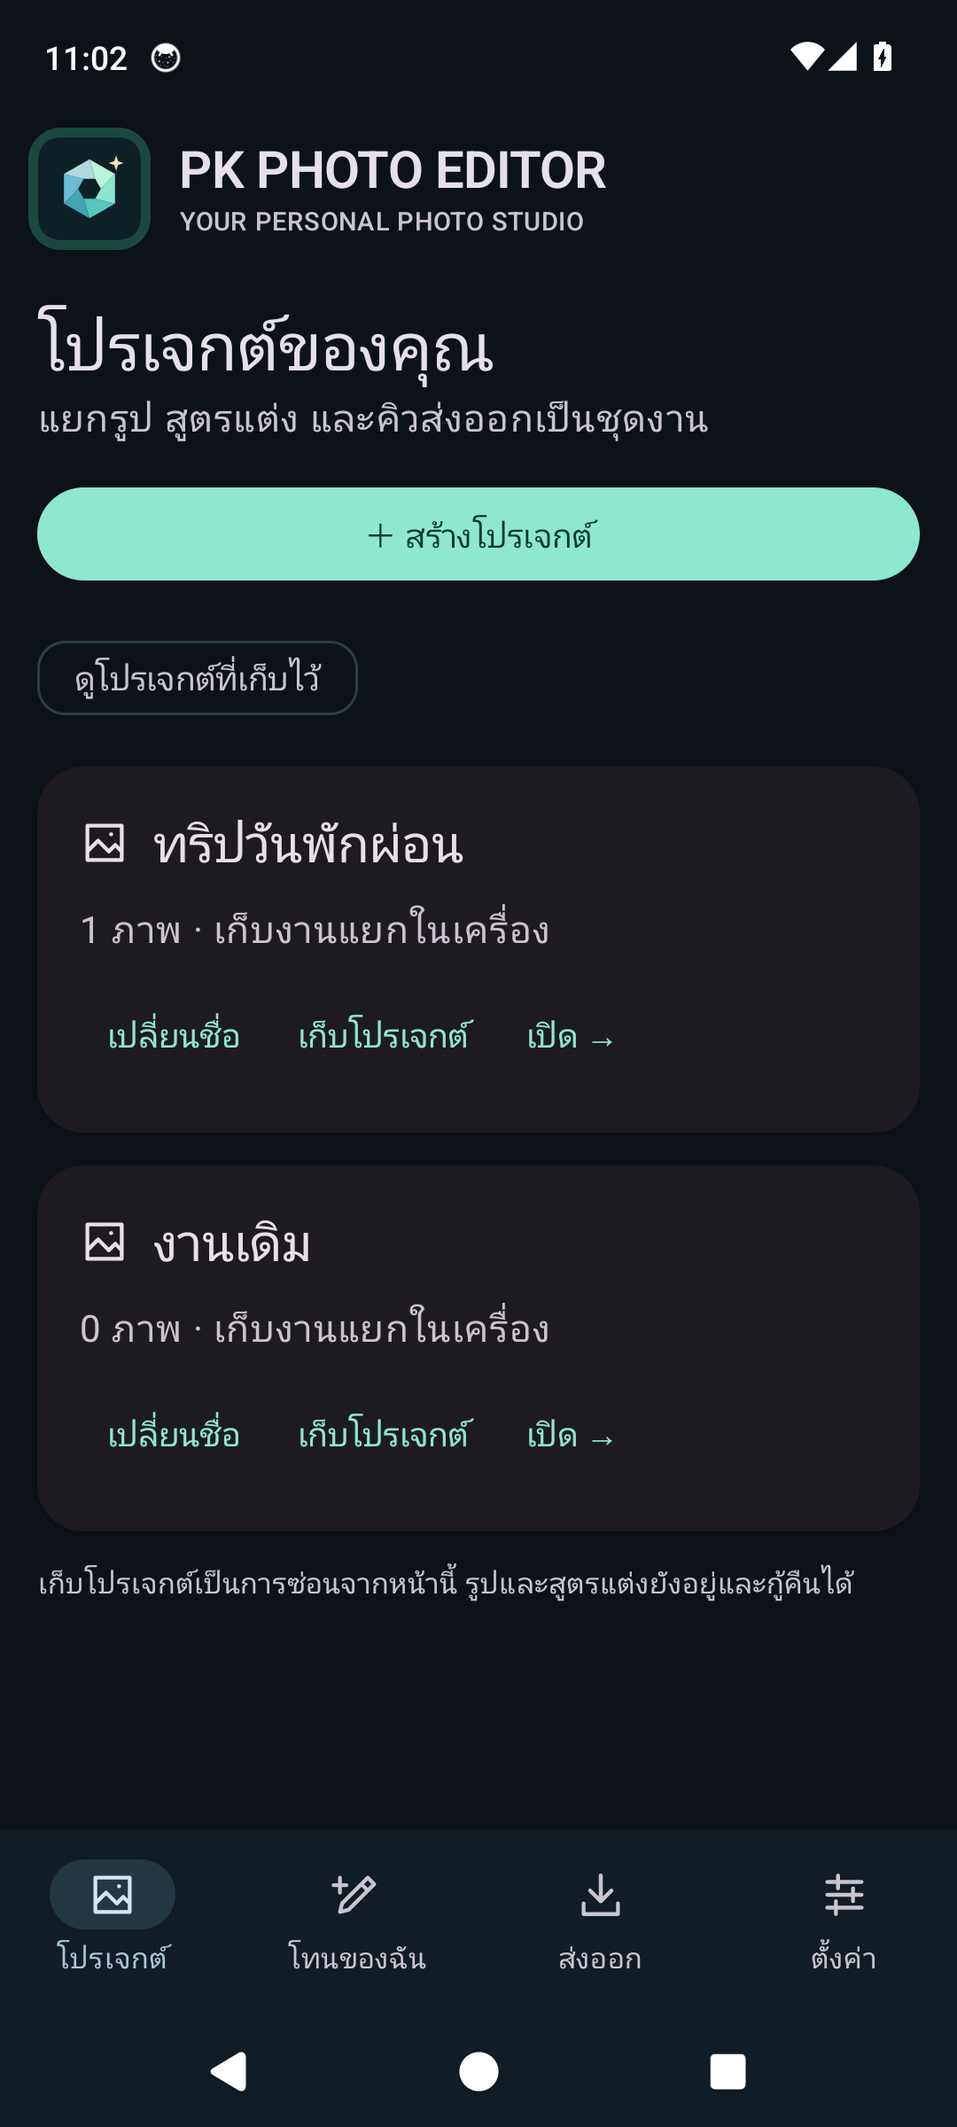
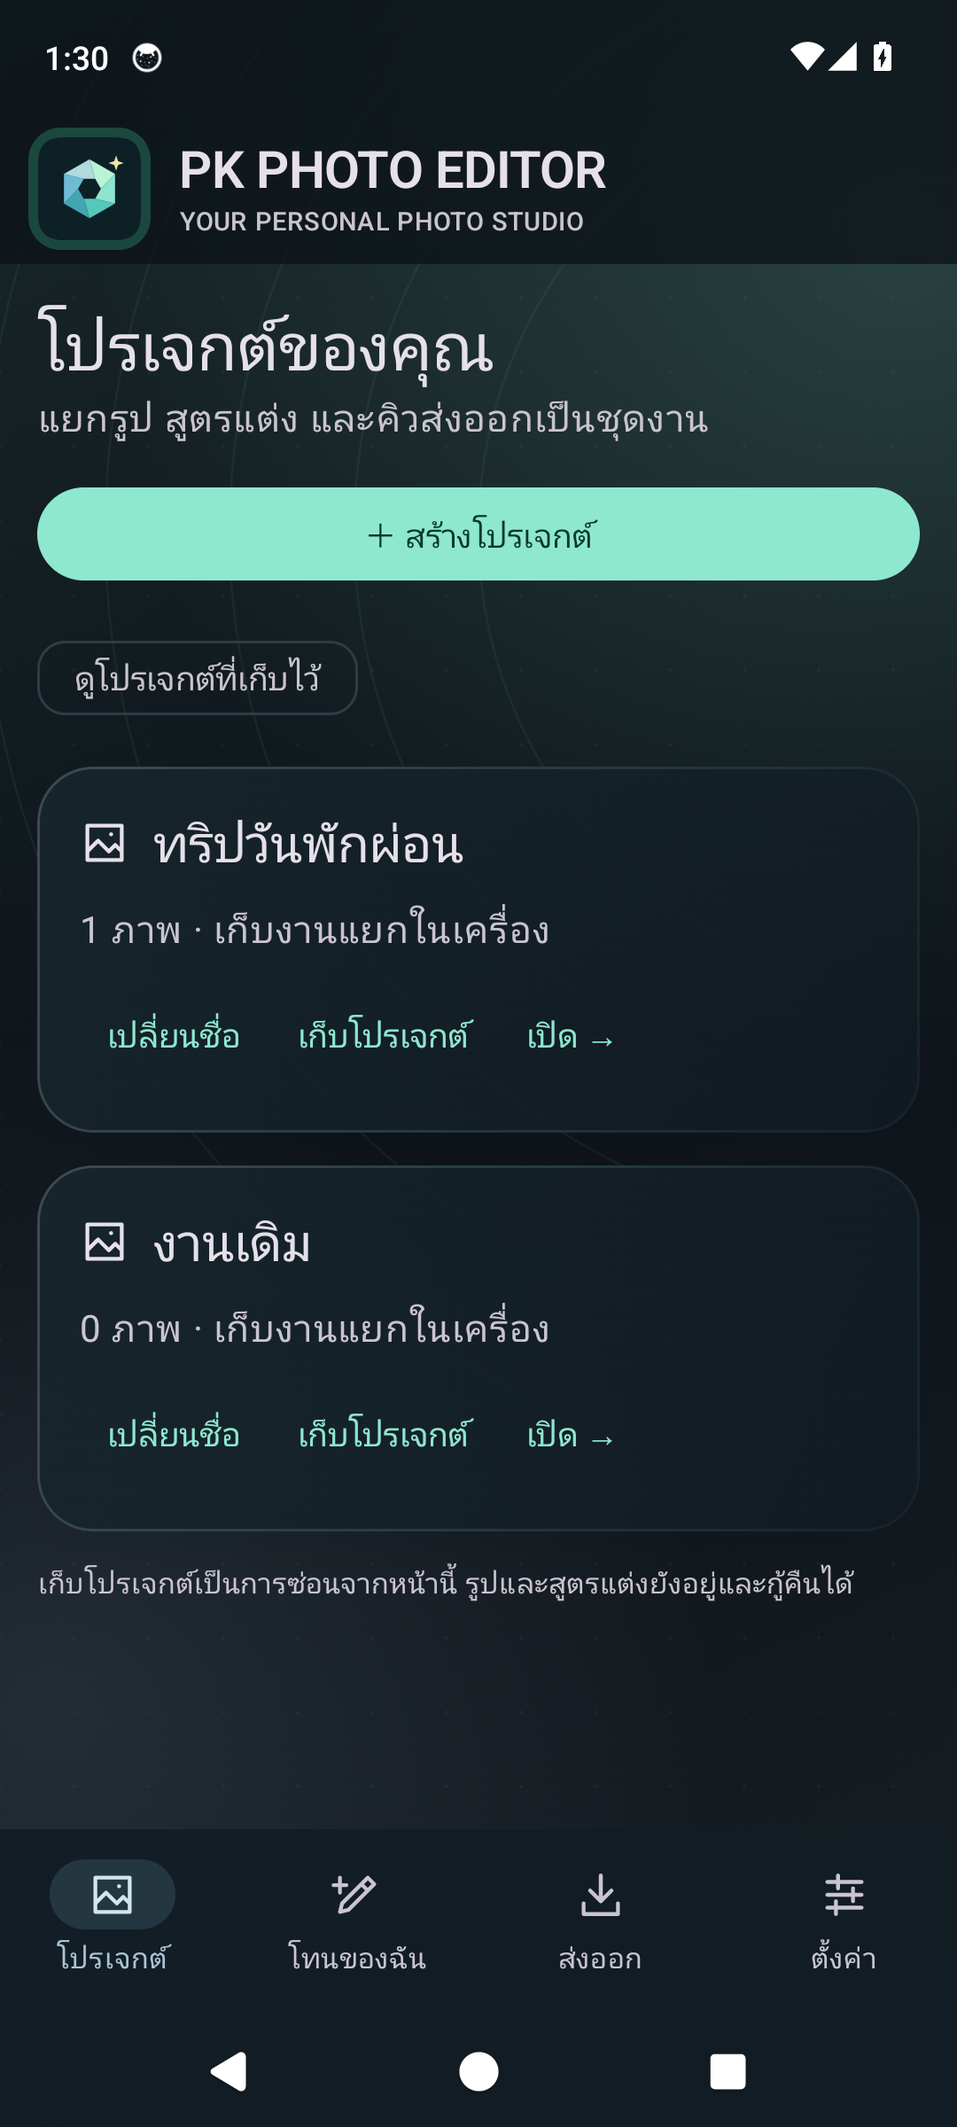
Release 0.4.1 timestamp names and glass studio screens

diff --git a/docs/index.html b/docs/index.html
@@ -1,10 +1,11 @@
 <!doctype html>
 <html lang="th"><head><meta charset="utf-8"><meta name="viewport" content="width=device-width,initial-scale=1"><meta name="theme-color" content="#101916"><meta name="description" content="PK PHOTO EDITOR โปรแกรมแต่งภาพบน Android 14 ขึ้นไป ปรับโทน แสง สี และจัดการภาพเป็นชุดบนเครื่องของคุณ"><title>PK PHOTO EDITOR — Make it your light.</title><link rel="icon" href="assets/pk-logo.svg" type="image/svg+xml"><link rel="preload" href="assets/NotoSansThai.ttf" as="font" type="font/ttf" crossorigin><link rel="stylesheet" href="style.css"></head>
 <body><a class="skip" href="#main">ข้ามไปเนื้อหา</a><header><a class="brand" href="#" aria-label="PK PHOTO EDITOR หน้าแรก"><img class="brand-symbol" src="assets/pk-logo.svg" width="56" height="56" alt="โลโก้ PK PHOTO EDITOR"><span>PK PHOTO<br>EDITOR</span></a><nav aria-label="เมนูหลัก"><a href="#studio">สตูดิโอ</a><a href="#features">เครื่องมือ</a><a href="#install">ติดตั้ง</a><a class="nav-download" href="https://github.com/hertzscream/PK-PHOTO-EDITOR/releases/latest">ดาวน์โหลด ↗</a></nav></header>
-<main id="main"><section class="hero"><div class="hero-copy"><p class="eyebrow"><span class="dot"></span> YOUR POCKET PHOTO STUDIO</p><h1>แสงของคุณ<br>ในแบบ<span class="serif">ของคุณ.</span></h1><p class="lead">เก็บบรรยากาศที่คุณรู้สึกไว้ในทุกภาพ<br>แต่งแสง ปรับสี คุมโทน ได้อย่างอิสระบน Android</p><div class="actions"><a class="button primary" href="https://github.com/hertzscream/PK-PHOTO-EDITOR/releases/latest/download/PK-PHOTO-EDITOR.apk">ดาวน์โหลด APK <span>↓</span></a><a class="text-link" href="#download-qr">สแกน QR Code ↗</a><a class="text-link" href="#studio">ชมหน้าจอจริง ↗</a></div><p class="meta">ANDROID 14+ <span>·</span> v0.4.0 รุ่นทดสอบ <span>·</span> ประมวลผลภาพบนเครื่อง</p></div><div class="hero-art"><div class="orb"></div><div class="phone"><div class="phone-top">PK PHOTO EDITOR <span>●</span></div><img src="assets/editor.png" width="450" height="1000" alt="หน้าจอแต่งภาพจริงของ PK PHOTO EDITOR" fetchpriority="high"><div class="phone-bottom"></div></div><div class="floating-note"><span>✦</span><div>YOUR NEXT EDIT<br><strong>เริ่มจากแสงที่ใช่</strong></div></div><span class="vertical-caption">LIGHT / COLOR / YOUR POINT OF VIEW</span></div></section>
+<main id="main"><section class="hero"><div class="hero-copy"><p class="eyebrow"><span class="dot"></span> YOUR POCKET PHOTO STUDIO</p><h1>แสงของคุณ<br>ในแบบ<span class="serif">ของคุณ.</span></h1><p class="lead">เก็บบรรยากาศที่คุณรู้สึกไว้ในทุกภาพ<br>แต่งแสง ปรับสี คุมโทน ได้อย่างอิสระบน Android</p><div class="actions"><a class="button primary" href="https://github.com/hertzscream/PK-PHOTO-EDITOR/releases/latest/download/PK-PHOTO-EDITOR.apk">ดาวน์โหลด APK <span>↓</span></a><a class="text-link" href="#download-qr">สแกน QR Code ↗</a><a class="text-link" href="#studio">ชมหน้าจอจริง ↗</a></div><p class="meta">ANDROID 14+ <span>·</span> v0.4.1 รุ่นทดสอบ <span>·</span> ประมวลผลภาพบนเครื่อง</p></div><div class="hero-art"><div class="orb"></div><div class="phone"><div class="phone-top">PK PHOTO EDITOR <span>●</span></div><img src="assets/editor.png" width="450" height="1000" alt="หน้าจอแต่งภาพจริงของ PK PHOTO EDITOR" fetchpriority="high"><div class="phone-bottom"></div></div><div class="floating-note"><span>✦</span><div>YOUR NEXT EDIT<br><strong>เริ่มจากแสงที่ใช่</strong></div></div><span class="vertical-caption">LIGHT / COLOR / YOUR POINT OF VIEW</span></div></section>
 <div class="ribbon"><span>LOCAL FIRST</span><span>แสง • สี • รายละเอียด</span><span>UNDO / REDO</span><span>ANDROID 14+</span></div>
 <section class="studio section" id="studio"><div class="section-heading"><p class="eyebrow">01 / THE STUDIO</p><h2>ทุกการปรับ<br><span class="muted">เห็นความเปลี่ยนแปลง.</span></h2><p>เลือกรูปแล้วเข้าแต่งได้ทันที มีภาพตัวอย่างอยู่ตรงหน้า เปรียบเทียบต้นฉบับ ย้อนกลับ และทำซ้ำได้โดยไม่แก้ไฟล์ต้นฉบับ</p></div><div class="screens"><figure><img src="assets/projects.png" alt="โปรเจกต์แยกชุดภาพและสูตรแต่ง" loading="lazy" width="450" height="1000"><figcaption><span>01</span> แยกงานเป็นโปรเจกต์</figcaption></figure><figure class="featured"><img src="assets/editor.png" alt="ตัวอย่างภาพ เครื่องมือปรับโทน และปุ่มย้อนกลับ" loading="lazy" width="450" height="1000"><figcaption><span>02</span> เครื่องมืออยู่ในมือคุณ</figcaption></figure><figure><img src="assets/settings.png" alt="หน้าตั้งค่าธีม เสียง และตรวจสอบอัปเดต" loading="lazy" width="450" height="1000"><figcaption><span>03</span> ปรับพื้นที่ให้เป็นของคุณ</figcaption></figure></div><p class="caption">ภาพหน้าจอจากแอปจริง ภาพประกอบสำหรับสาธิต ไม่มีภาพส่วนตัวของผู้ใช้</p></section>
 <section class="features section" id="features"><p class="eyebrow">02 / CREATIVE CONTROL</p><div class="feature-heading"><h2>น้อยขั้นตอน<br><span class="serif">มากความเป็นคุณ.</span></h2><p>จากโปรเจกต์เดียวถึงหลายชุด<br>ทำงานต่อได้ในจังหวะของคุณ</p></div><div class="feature-grid"><article><span class="feature-icon">◐</span><h3>คุมแสงและสี</h3><p>จัดลำดับและเก็บโทนโปรด ปรับความเข้ม 0–200% พร้อมควบคุมแสง สี และรายละเอียดด้วยตัวเอง</p></article><article><span class="feature-icon">↶</span><h3>ลองได้อย่างอิสระ</h3><p>Undo / Redo แยกแต่ละรูป สลับภาพก่อนหน้าและถัดไปได้จากหน้าแต่ง</p></article><article><span class="feature-icon">▧</span><h3>ภาพเป็นชุดก็สะดวก</h3><p>แยกชุดรูปเป็นโปรเจกต์ เลือกใช้โทนกับบางภาพหรือทั้งโปรเจกต์ แล้วส่งออก JPEG</p></article><article><span class="feature-icon">⌁</span><h3>ภาพอยู่บนเครื่อง</h3><p>การแต่งภาพทำงานแบบออฟไลน์ เชื่อมต่อ GitHub เมื่อคุณกดตรวจสอบหรือดาวน์โหลดอัปเดต</p></article></div></section>
 <section class="install section" id="install"><div><p class="eyebrow">03 / GET STARTED</p><h2>สตูดิโอของคุณ<br><span class="serif">พร้อมเปิดแล้ว.</span></h2><p class="lead">สำหรับ Android 14 ขึ้นไป<br>ดาวน์โหลดโดยตรงจาก GitHub Releases</p><a class="button primary" href="https://github.com/hertzscream/PK-PHOTO-EDITOR/releases/latest/download/PK-PHOTO-EDITOR.apk">ดาวน์โหลด PK PHOTO EDITOR ↓</a><a class="release-link" href="https://github.com/hertzscream/PK-PHOTO-EDITOR/releases/latest">รายละเอียดเวอร์ชันและ SHA-256 ↗</a><div class="download-qr" id="download-qr" role="group" aria-labelledby="qr-title"><a class="qr-image-link" href="https://github.com/hertzscream/PK-PHOTO-EDITOR/releases/latest/download/PK-PHOTO-EDITOR.apk" aria-label="ดาวน์โหลด APK รุ่นล่าสุดของ PK PHOTO EDITOR"><img src="assets/download-qr.png" width="490" height="490" alt="QR Code สำหรับดาวน์โหลด PK PHOTO EDITOR รุ่นล่าสุด" loading="lazy"></a><div class="qr-copy"><p class="eyebrow">SCAN TO DOWNLOAD</p><h3 id="qr-title">สแกนแล้วโหลดบนมือถือ</h3><p>เปิดกล้องมือถือ Android แล้วสแกน QR Code เพื่อดาวน์โหลด APK รุ่นล่าสุด</p><a class="qr-save" href="assets/download-qr.png" download="PK-PHOTO-EDITOR-download-QR.png">บันทึก QR Code ↓</a><p class="qr-note">Android 14 ขึ้นไป · ดาวน์โหลดจาก GitHub Releases</p></div></div></div><ol><li><span>01</span><div><h3>ดาวน์โหลดและเปิด APK</h3><p>อนุญาตการติดตั้งจากแหล่งนี้ให้กับเบราว์เซอร์เมื่อ Android ขอ แล้วตรวจชื่อแอปก่อนติดตั้ง</p></div></li><li><span>02</span><div><h3>เลือกรูป เริ่มสร้างบรรยากาศ</h3><p>เลือกภาพผ่าน Photo Picker ต้นฉบับจะถูกคัดลอกไว้ในพื้นที่ส่วนตัวของแอป</p></div></li><li><span>03</span><div><h3>อัปเดตจากในแอป</h3><p>ไปที่ ตั้งค่า → ตรวจสอบอัปเดต แอปตรวจสอบไฟล์และลายเซ็นก่อนเปิดหน้าติดตั้งของ Android</p></div></li></ol></section>
-<section class="faq section"><p class="eyebrow">GOOD TO KNOW</p><details><summary>รุ่นนี้เป็นเวอร์ชันทดสอบหรือไม่?</summary><p>ใช่ รุ่น 0.4.0 เป็น APK สำหรับทดสอบ ใช้ debug signing เดิมเพื่ออัปเดตจากรุ่นก่อนหน้า ควรสำรองภาพที่ส่งออกแล้วก่อนเปลี่ยนเครื่องหรือถอนการติดตั้ง</p></details><details><summary>มีการส่งรูปขึ้นเซิร์ฟเวอร์หรือไม่?</summary><p>ไม่มีการอัปโหลดรูปเพื่อแต่งภาพ รูปและสูตรแต่งจัดเก็บบนเครื่อง การตรวจสอบอัปเดตติดต่อ GitHub เพื่อรับข้อมูลเวอร์ชันและ APK เท่านั้น</p></details><details><summary>ใช้กับ RAW หรือ HDR ได้หรือไม่?</summary><p>ระบบแต่งและส่งออกปัจจุบันเป็น SDR JPEG ไม่ใช่กระบวนการพัฒนา RAW หรือส่งออก HDR</p></details><details><summary>แจ้งปัญหาหรือเสนอเครื่องมือได้ที่ไหน?</summary><p><a href="https://github.com/hertzscream/PK-PHOTO-EDITOR/issues">เปิด Issue บน GitHub</a> พร้อมรุ่น Android และขั้นตอนที่พบปัญหา โปรดอย่าแนบภาพส่วนตัวหรือข้อมูลลับ</p></details></section></main>
+<section class="faq section"><p class="eyebrow">GOOD TO KNOW</p><details><summary>รุ่นนี้เป็นเวอร์ชันทดสอบหรือไม่?</summary><p>ใช่ รุ่น 0.4.1 เป็น APK สำหรับทดสอบ ใช้ debug signing เดิมเพื่ออัปเดตจากรุ่นก่อนหน้า ควรสำรองภาพที่ส่งออกแล้วก่อนเปลี่ยนเครื่องหรือถอนการติดตั้ง</p></details><details><summary>มีการส่งรูปขึ้นเซิร์ฟเวอร์หรือไม่?</summary><p>ไม่มีการอัปโหลดรูปเพื่อแต่งภาพ รูปและสูตรแต่งจัดเก็บบนเครื่อง การตรวจสอบอัปเดตติดต่อ GitHub เพื่อรับข้อมูลเวอร์ชันและ APK เท่านั้น</p></details><details><summary>ใช้กับ RAW หรือ HDR ได้หรือไม่?</summary><p>ระบบแต่งและส่งออกปัจจุบันเป็น SDR JPEG ไม่ใช่กระบวนการพัฒนา RAW หรือส่งออก HDR</p></details><details><summary>แจ้งปัญหาหรือเสนอเครื่องมือได้ที่ไหน?</summary><p><a href="https://github.com/hertzscream/PK-PHOTO-EDITOR/issues">เปิด Issue บน GitHub</a> พร้อมรุ่น Android และขั้นตอนที่พบปัญหา โปรดอย่าแนบภาพส่วนตัวหรือข้อมูลลับ</p></details></section></main>
 <footer><a class="brand" href="#">PK PHOTO EDITOR <span>✦</span></a><div class="developer-credit"><p>Make it your light.</p><span>พัฒนาโดย prasert sungthonglang</span></div><div><a href="privacy.html">ความเป็นส่วนตัว</a><a href="https://github.com/hertzscream/PK-PHOTO-EDITOR">GitHub ↗</a></div></footer></body></html>
+

diff --git a/RELEASE_NOTES.md b/RELEASE_NOTES.md
@@ -1,14 +1,10 @@
-PK PHOTO EDITOR 0.4.0 — โปรเจกต์และโทนในแบบของคุณ
+PK PHOTO EDITOR 0.4.1 — วันที่ เวลา และสตูดิโอโปร่งใส
 
-- โลโก้ใหม่ พร้อมไอคอน adaptive และ monochrome
-- แยกชุดรูปเป็นโปรเจกต์ สร้าง เปลี่ยนชื่อ เก็บ และกู้คืนได้ งานเดิมอยู่ในโปรเจกต์ “งานเดิม”
-- ใช้โทนกับภาพเดียว ภาพที่เลือก หรือทั้งโปรเจกต์ โดยคงค่าปรับมือของแต่ละภาพ
-- ความเข้มโทน 0–200% ด้วยแถบเลื่อน ปุ่ม ±5% หรือกรอกตัวเลข
-- จัดลำดับด้วยขึ้น/ลงหรือระบุตำแหน่ง เก็บโทนโปรด และค้นหา
-- เพิ่ม เปลี่ยนชื่อ แทนที่สูตร ซ่อน ลบเข้าถังขยะ และกู้คืนโทน โดยไม่เปลี่ยนสูตรของภาพที่แต่งไว้แล้ว
-- ระบุผู้พัฒนา prasert sungthonglang
-- เว็บไซต์ฟอนต์ไทยอ่านง่าย ภาพหน้าจอใหม่ พร้อม QR ดาวน์โหลด APK ล่าสุด
+- สร้างโปรเจกต์โดยเว้นชื่อได้ ระบบตั้งวันที่–เวลาปัจจุบันให้อัตโนมัติ
+- รูปที่นำเข้าใหม่แสดงชื่อวันที่–เวลา และไฟล์ JPEG ส่งออกใหม่ใช้ชื่อ PK_PHOTO_วันที่_เวลา_รหัสเฉพาะ.jpg ป้องกันชื่อซ้ำ
+- ชื่อไฟล์ส่งออกคงเดิมเมื่อทำงานต่อหรือลองใหม่ แม้เปลี่ยนเขตเวลา คิวเก่าใช้ชื่อเดิมเพื่อกู้คืนได้
+- พื้นหลังใหม่ไล่แสง มีลายเส้นโค้งและจุดกราฟิก
+- การ์ดโปรเจกต์ จัดการโทน และตั้งค่าโปร่งใส พร้อมขอบสะท้อนแสงและเงา รองรับธีมมืด/สว่าง
 
-Android 14 ขึ้นไป versionCode 6 รุ่นทดสอบใช้ลายเซ็น debug เดิม ติดตั้งทับรุ่นก่อนหน้าได้โดยไม่ถอนแอป ย้ายข้อมูลเก่าโดยไม่ล้างฐานข้อมูล ไม่มีการส่งภาพไป GitHub
-
-ยังไม่มีระบบสำรอง/นำเข้าโปรเจกต์ ห้ามถอนแอปหรือล้างข้อมูลหากต้องการเก็บงานในแอป รุ่นนี้ยังไม่ใช่ production หรือแพ็กเกจ Google Play
+Android 14 ขึ้นไป versionCode 7 ใช้ลายเซ็น debug เดิม ติดตั้งทับได้โดยไม่ถอนแอป งานและชื่อเดิมไม่ถูกเปลี่ยนย้อนหลัง
+รุ่นทดสอบ ยังไม่มีระบบสำรองโปรเจกต์ ห้ามถอนแอปหรือล้างข้อมูลหากต้องการเก็บงาน

diff --git a/README.md b/README.md
@@ -5,7 +5,7 @@ Official website and Android APK releases for PK PHOTO EDITOR.
 - Website: https://hertzscream.github.io/PK-PHOTO-EDITOR/
 - Download: https://github.com/hertzscream/PK-PHOTO-EDITOR/releases/latest
 - Android 14 or later (API 34+)
-- Current version: 0.4.0 (versionCode 6), testing build signed with the existing debug certificate.
+- Current version: 0.4.1 (versionCode 7), testing build signed with the existing debug certificate.
 
 ## ใช้งาน
 
@@ -37,4 +37,7 @@ Official website and Android APK releases for PK PHOTO EDITOR.
 โปรเจกต์แยกชุดรูป ความเข้มโทน 0–200% ใช้เฉพาะภาพ/ที่เลือก/ทั้งโปรเจกต์ จัดลำดับ โทนโปรด แก้ ซ่อน ถังขยะกู้คืน พร้อมโลโก้และฟอนต์เว็บใหม่
 
 พัฒนาโดย prasert sungthonglang รุ่นทดสอบ ยังไม่มีสำรองโปรเจกต์ ห้ามถอนแอปหรือล้างข้อมูลหากต้องการเก็บงาน
+
+
+0.4.1 เพิ่มชื่อวันที่–เวลาอัตโนมัติและพื้นหลัง/การ์ดโปร่งใสมีมิติ
 
